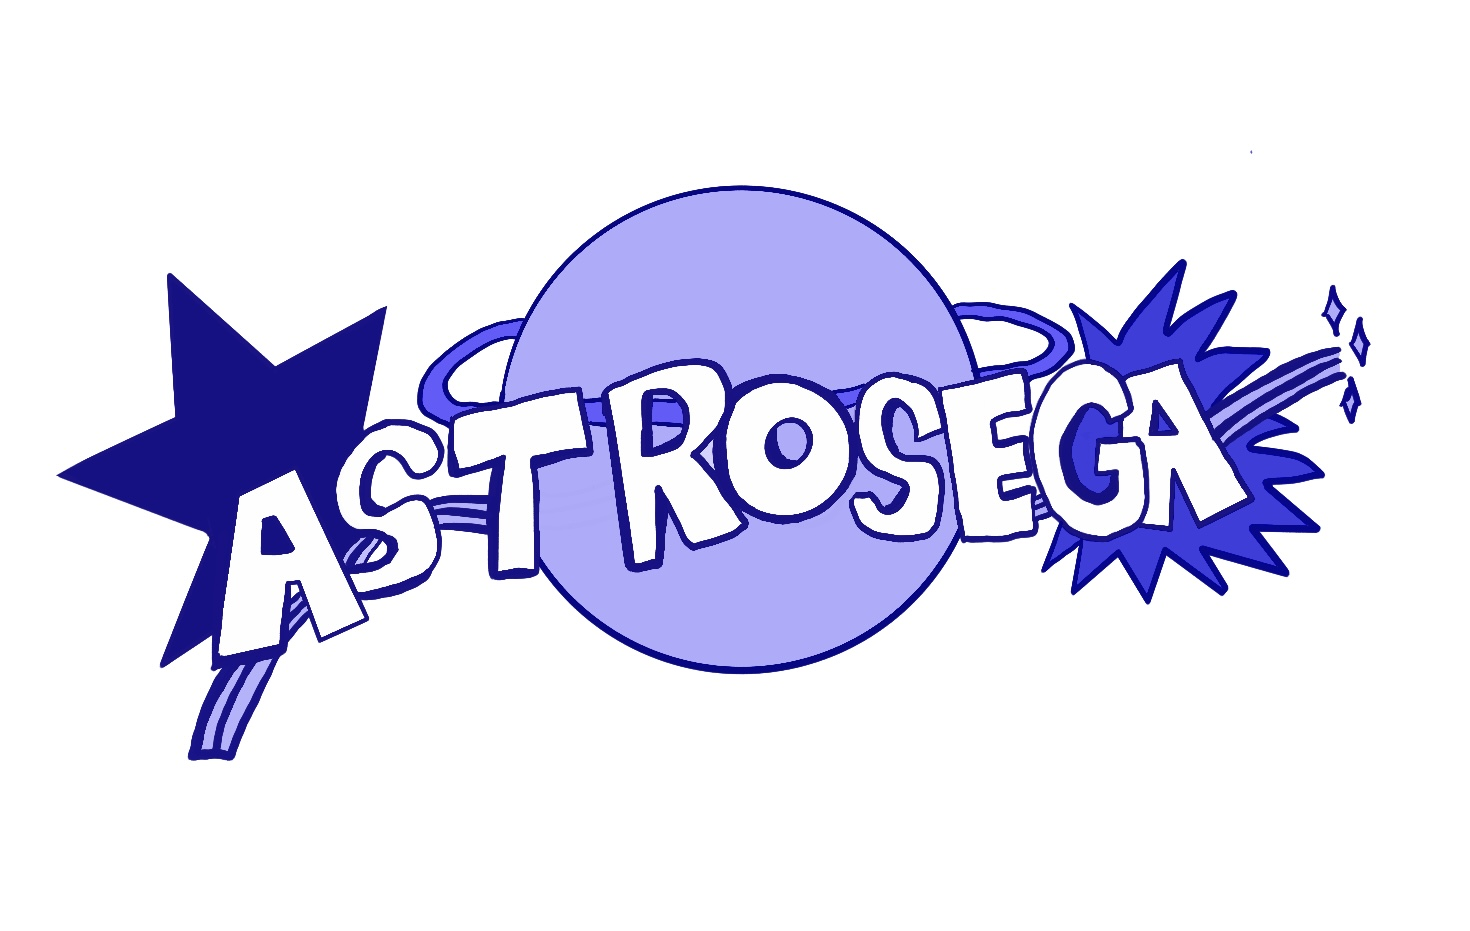
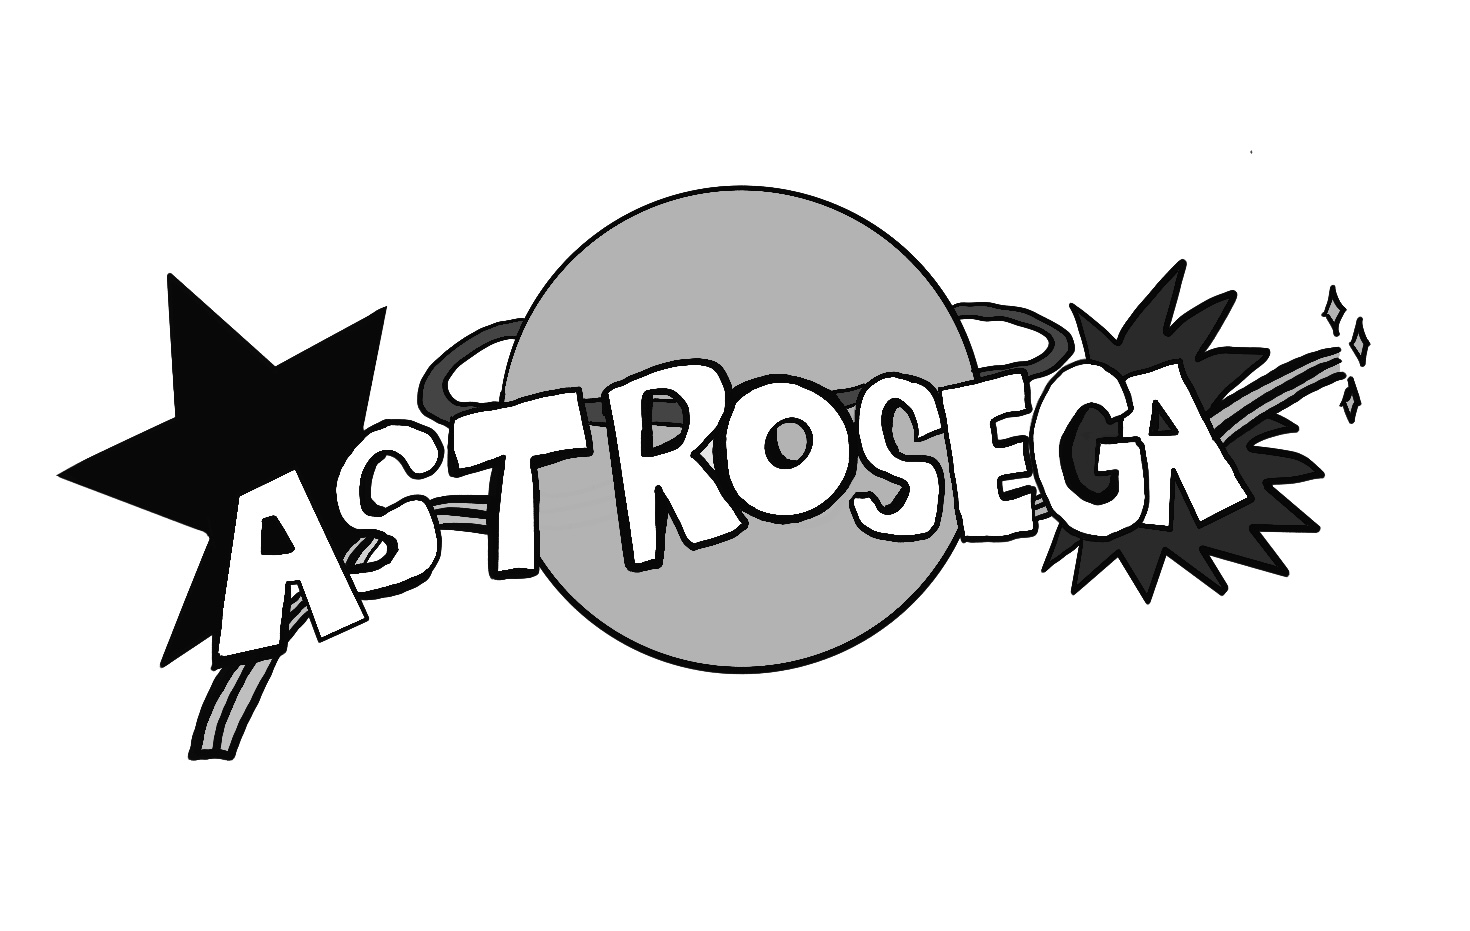
Change profile pic

Changed region(s): [[0.0306, 0.1869, 0.949, 0.841]]

diff --git a/_pages/about.md b/_pages/about.md
@@ -17,5 +17,5 @@ A page to find *de re* representations (computer code, publications, and teachin
 
 Microstory: Del Rigor en La Ciencia (On the Rigors of Science). Translation by Daniel Sega. \
 Banner picture: "Bridge over Maracaibo Lake, 2022." Daniel Sega. \
-Profile picture: "Casa de la Abuela." José Domingo González de Ondiz.
+Profile picture: "Astrosega" (2025) Hand-drawn by Ana Villegas.
 
